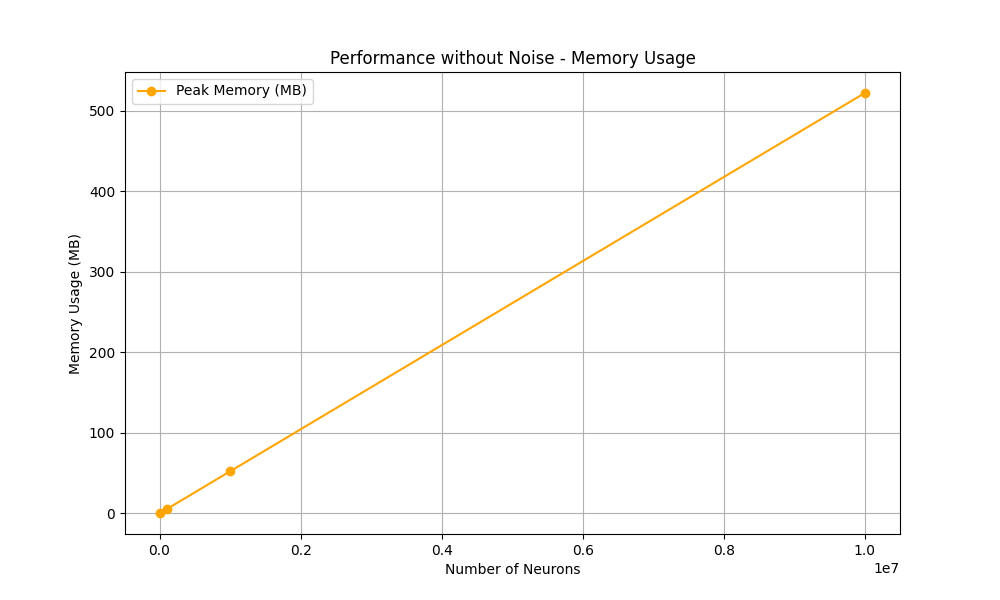
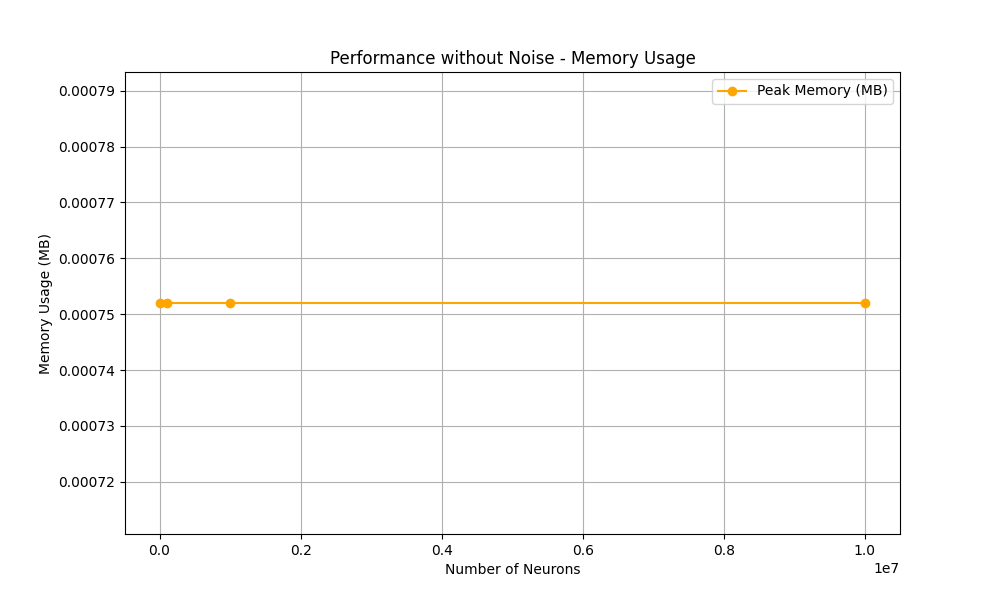
LIFNeuronGroup implemented for better performance (tested with up to 10,000,000 neurons)

diff --git a/src/test/performance_test.py b/src/test/performance_test.py
@@ -1,39 +1,58 @@
 import time
-
 import matplotlib
 import matplotlib.pyplot as plt
-import numpy as np
+import torch
 from lif.lif_neuron_group import LIFNeuronGroup
 import tracemalloc
 
 matplotlib.use('TkAgg')
 
 
-def test_performance(neuron_counts, timesteps, noise_std=0.0, use_adaptive_threshold=True):
+def test_performance(neuron_counts, timesteps, noise_std=0.0, use_adaptive_threshold=True, stochastic=True, batch_size=1, device="cuda"):
+    """
+    Test performance of LIFNeuronGroup for different neuron counts and configurations.
+
+    :param neuron_counts: List of neuron counts to test.
+    :param timesteps: Number of timesteps to simulate.
+    :param noise_std: Standard deviation of noise.
+    :param use_adaptive_threshold: Whether to use adaptive thresholds.
+    :param stochastic: Whether to enable stochastic spiking.
+    :param batch_size: Number of batches.
+    :param device: Device to run the simulation ('cpu' or 'cuda').
+    :return: List of tuples with runtime and peak memory usage for each neuron count.
+    """
     runtimes = []
 
     for num_neurons in neuron_counts:
         print(f"Testing {num_neurons} neurons over {timesteps} timesteps...")
+
+        # Initialize LIF neuron group
         neuron_group = LIFNeuronGroup(
             num_neurons=num_neurons,
+            batch_size=batch_size,
             noise_std=noise_std,
-            use_adaptive_threshold=use_adaptive_threshold
+            use_adaptive_threshold=use_adaptive_threshold,
+            stochastic=stochastic,
+            device=device
         )
-        inputs = np.random.uniform(0, 1, size=(timesteps, num_neurons))
 
+        # Generate input currents
+        inputs = torch.rand((timesteps, batch_size, num_neurons), device=device)
+
+        # Start memory tracking
         tracemalloc.start()
-
         start_time = time.time()
+
+        # Simulate each timestep
         for t in range(timesteps):
             neuron_group.step(inputs[t])
+
         end_time = time.time()
         current_memory, peak_memory = tracemalloc.get_traced_memory()
         tracemalloc.stop()
 
         runtime = end_time - start_time
-
-        # Convert memory to MB
-        runtimes.append((runtime, peak_memory / 1e6))
+        runtimes.append((runtime, peak_memory / 1e6))  # Convert memory usage to MB
 
         print(f"Runtime for {num_neurons} neurons: {runtime:.2f} seconds")
         print(f"Peak memory usage: {peak_memory / 1e6:.2f} MB")
@@ -42,9 +61,16 @@ def test_performance(neuron_counts, timesteps, noise_std=0.0, use_adaptive_thres
 
 
 def plot_results(neuron_counts, results, title):
+    """
+    Plot runtime and memory usage results.
+
+    :param neuron_counts: List of neuron counts tested.
+    :param results: Results from the performance test (runtime and memory usage).
+    :param title: Title for the plots.
+    """
     runtimes, memory_usages = zip(*results)
 
-    # Runtime plot for different neuron counts
+    # Runtime plot
     plt.figure(figsize=(10, 6))
     plt.plot(neuron_counts, runtimes, marker='o', label='Runtime (seconds)')
     plt.title(f"{title} - Runtime")
@@ -53,8 +79,9 @@ def plot_results(neuron_counts, results, title):
     plt.grid(True)
     plt.legend()
     plt.savefig(f'{title.lower().replace(" ", "_")}_runtime.png')
+    plt.show()
 
-    # Memory usage plot for different neuron counts
+    # Memory usage plot
     plt.figure(figsize=(10, 6))
     plt.plot(neuron_counts, memory_usages, marker='o', label='Peak Memory (MB)', color='orange')
     plt.title(f"{title} - Memory Usage")
@@ -63,22 +90,25 @@ def plot_results(neuron_counts, results, title):
     plt.grid(True)
     plt.legend()
     plt.savefig(f'{title.lower().replace(" ", "_")}_memory.png')
+    plt.show()
 
 
 if __name__ == "__main__":
+    # Test configurations
     neuron_counts = [10_000, 100_000, 1_000_000, 10_000_000]
-
-    # Number of timesteps to simulate, 16 is a typical value (I guess)
     timesteps = 16
+    batch_size = 1  # Adjust as needed
+    device = "cuda" if torch.cuda.is_available() else "cpu"
 
+    # Performance tests
     print("Testing with Noise and Adaptive Thresholds Enabled")
-    results = test_performance(neuron_counts, timesteps, noise_std=0.1, use_adaptive_threshold=True)
+    results = test_performance(neuron_counts, timesteps, noise_std=0.1, use_adaptive_threshold=True, batch_size=batch_size, device=device)
     plot_results(neuron_counts, results, "Performance with Noise and Adaptive Thresholds")
 
     print("Testing without Noise")
-    results_no_noise = test_performance(neuron_counts, timesteps, noise_std=0.0, use_adaptive_threshold=True)
+    results_no_noise = test_performance(neuron_counts, timesteps, noise_std=0.0, use_adaptive_threshold=True, stochastic=False, batch_size=batch_size, device=device)
     plot_results(neuron_counts, results_no_noise, "Performance without Noise")
 
     print("Testing without Adaptive Thresholds")
-    results_no_adaptive = test_performance(neuron_counts, timesteps, noise_std=0.1, use_adaptive_threshold=False)
+    results_no_adaptive = test_performance(neuron_counts, timesteps, noise_std=0.1, use_adaptive_threshold=False, batch_size=batch_size, device=device)
     plot_results(neuron_counts, results_no_adaptive, "Performance without Adaptive Thresholds")

diff --git a/src/lif/lif_neuron_group.py b/src/lif/lif_neuron_group.py
@@ -1,4 +1,5 @@
 import numpy as np
+import torch
 
 
 class LIFNeuronGroup:
@@ -17,7 +18,9 @@ class LIFNeuronGroup:
                  noise_std: float = 0.1,
                  stochastic: bool = True,
                  min_threshold: float = 0.5,
-                 max_threshold: float = 2.0):
+                 max_threshold: float = 2.0,
+                 batch_size: int = 1,
+                 device: str = "cpu",):
         """
         Initialize the LIF neuron group with its parameters.
 
@@ -40,41 +43,45 @@ class LIFNeuronGroup:
         assert min_threshold > 0, "Minimum threshold must be positive."
         assert max_threshold > min_threshold, "Maximum threshold must be greater than the minimum threshold."
         assert dt > 0, "Time step (dt) must be positive."
+        assert batch_size > 0, "Batch size must be positive."
+        assert device in ["cpu", "cuda"], "Device must be either 'cpu' or 'cuda'."
+
+        self.batch_size = batch_size
+        self.device = device
 
         self.num_neurons = num_neurons
-        self.V_th = np.full(num_neurons, V_th)
-        self.V_reset = V_reset
-        self.tau = tau
-        self.dt = dt
-        self.eta = eta
-        self.V = np.zeros(num_neurons)
-        self.spikes = np.zeros(num_neurons, dtype=bool)
+        self.V_th = torch.full((batch_size, num_neurons), V_th, device=device)
+        self.V_reset = torch.tensor(V_reset, device=device)
+        self.tau = torch.tensor(tau, device=device)
+        self.dt = torch.tensor(dt, device=device)
+        self.eta = torch.tensor(eta, device=device)
+        self.V = torch.zeros((batch_size, num_neurons), device=device)
+        self.spikes = torch.zeros((batch_size, num_neurons), dtype=torch.bool, device=device)
         self.use_adaptive_threshold = use_adaptive_threshold
-        self.noise_std = noise_std
+        self.noise_std = torch.tensor(noise_std, device=device)
         self.stochastic = stochastic
 
         self.min_threshold = min_threshold
         self.max_threshold = max_threshold
 
-    def step(self, I: np.ndarray) -> np.ndarray:
+    def step(self, I: torch.Tensor) -> torch.Tensor:
         """
         Simulate one time step for all neurons in the group.
 
         :param I: Input current (array of size `num_neurons`).
         :return: Array of spike statuses (True for neurons that fired, False otherwise).
         """
-        assert I.shape[0] == self.num_neurons, "Input current must match the number of neurons."
+        assert I.shape == (self.batch_size, self.num_neurons), \
+            "Input current shape must match (batch_size, num_neurons)."
 
-        batch_size = I.shape[0]
-
-        noise = np.random.normal(0, self.noise_std, size=(batch_size, self.num_neurons)) if self.stochastic else 0.0
+        noise = torch.normal(0, self.noise_std.item(), size=I.shape, device=self.device) if self.stochastic else torch.zeros_like(I)
 
         dV = (I - self.V) / self.tau
         self.V += dV * self.dt + noise / self.V_th
 
         if self.stochastic:
             spike_prob = self.sigmoid(self.V - self.V_th)
-            self.spikes = np.random.uniform(0, 1, size=(batch_size, self.num_neurons)) < spike_prob
+            self.spikes = torch.rand_like(self.V, device=self.device) < spike_prob
         else:
             self.spikes = self.V >= self.V_th
 
@@ -87,7 +94,7 @@ class LIFNeuronGroup:
             self.V_th[~self.spikes] -= self.eta * (self.V_th[~self.spikes] - 1.0)
 
         # Clip threshold to the specified range
-        self.V_th = np.clip(self.V_th, self.min_threshold, self.max_threshold)
+        self.V_th = torch.clamp(self.V_th, self.min_threshold, self.max_threshold)
 
         return self.spikes
 

diff --git a/README.md b/README.md
@@ -109,11 +109,11 @@ bernoulli_spikes = bernoulli_layer(input_tensor)
 
 ## Performance Tests
 
-I conducted performance tests to evaluate the scalability and efficiency of the `LIFNeuronGroup` implementation. Below are the results:
+We conducted performance tests to evaluate the scalability and efficiency of the `LIFNeuronGroup` implementation using PyTorch and batch processing. Below are the results:
 
 ### Results Summary
 1. **Time Complexity**: The implementation exhibits a time complexity of \(O(n)\), where \(n\) is the number of neurons. This is optimal for simulating spiking neural networks, as each neuron requires updates for each timestep.
-2. **Linear Scaling**: The runtime and memory usage scale linearly with the number of neurons, as shown in the plots below.
+2. **Linear Scaling**: The runtime and memory usage scale linearly (Without noise it is constant) with the number of neurons, as shown in the plots below.
 3. **Effect of Features**: Adding noise and adaptive thresholds introduces slight overhead but maintains linear scaling.
 
 ### Runtime Scaling with Neuron Count
@@ -121,7 +121,7 @@ I conducted performance tests to evaluate the scalability and efficiency of the 
 #### Performance Without Noise
 
 <div align="center">
-  <img src="./src/Images/performance_without_noise_runtime.png" alt="Performance Without Noise - Runtime]" width="500"/>
+  <img src="./src/Images/performance_without_noise_runtime.png" alt="Performance Without Noise - Runtime" width="500"/>
 </div>
 
 - Runtime increases linearly with the number of neurons, demonstrating efficient vectorized operations.
@@ -142,7 +142,7 @@ I conducted performance tests to evaluate the scalability and efficiency of the 
   <img src="./src/Images/performance_without_noise_memory.png" alt="Performance Without Noise - Memory Usage" width="500"/>
 </div>
 
-- Memory usage also scales linearly, as each neuron stores its own state.
+- The constant memory usage without noise is due to the absence of additional computational steps
 
 #### Performance With Noise and Adaptive Thresholds
 
@@ -151,7 +151,7 @@ I conducted performance tests to evaluate the scalability and efficiency of the 
 </div>
 
 - Memory usage remains manageable, even with additional features enabled.
-
+- 
 ---
 
 ## Acknowledgments
